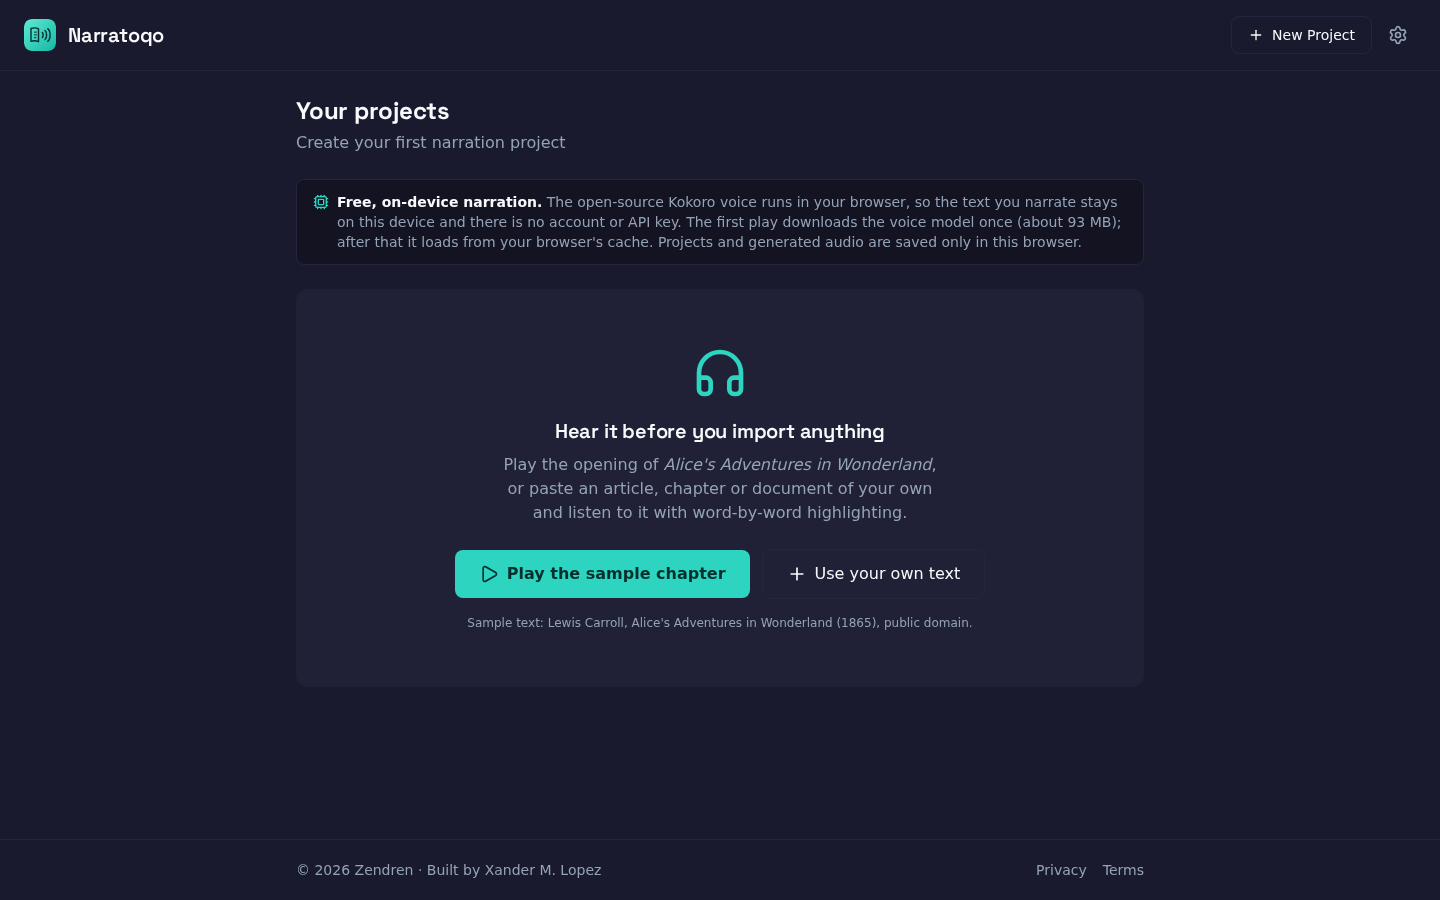
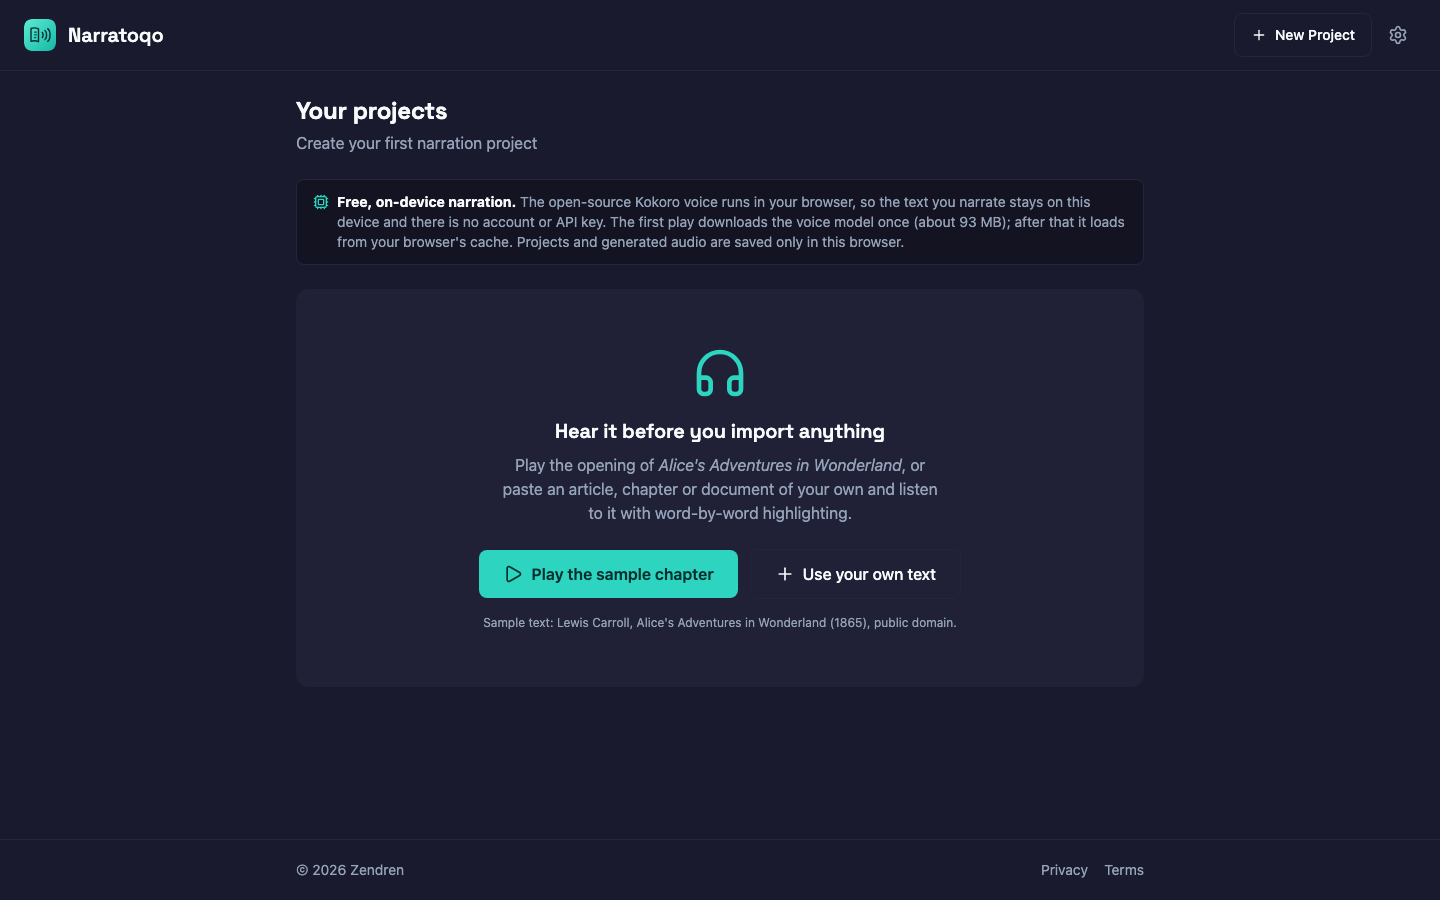
Remove personal credit from Narratoqo

diff --git a/src/pages/AppPolicy.test.tsx b/src/pages/AppPolicy.test.tsx
@@ -7,6 +7,13 @@ import { AppPolicy } from './AppPolicy';
 import deployment from '../../vercel.json';
 
 describe('App policy destinations', () => {
+  it('credits Zendren in the footer', () => {
+    render(<SiteFooter />);
+    const credit = screen.getByRole('link', { name: 'Zendren' });
+    expect(credit).toHaveAttribute('href', 'https://zendren.net');
+    expect(credit.closest('p')?.textContent).toBe(`© ${new Date().getFullYear()} Zendren`);
+  });
+
   it('links Privacy to the app privacy section', () => {
     render(<SiteFooter />);
     expect(screen.getByRole('link', { name: 'Privacy' })).toHaveAttribute('href', '/privacy#privacy');
@@ -24,6 +31,8 @@ describe('App policy destinations', () => {
   it('discloses browser storage and optional network processing without adding legal terms', () => {
     render(<MemoryRouter><AppPolicy /></MemoryRouter>);
     expect(screen.getByText(/This page covers the Narratoqo browser app/)).toBeInTheDocument();
+    expect(screen.getByText(/Zendren LLC operates Narratoqo/)).toBeInTheDocument();
+    expect(screen.getByRole('link', { name: 'hello@zendren.net' })).toHaveAttribute('href', 'mailto:hello@zendren.net');
     expect(screen.getByText(/Projects and generated audio.*IndexedDB/)).toBeInTheDocument();
     expect(screen.getByText(/Voice preferences.*localStorage/)).toBeInTheDocument();
     expect(screen.getByText(/Kokoro uses Cache Storage/)).toBeInTheDocument();

diff --git a/src/pages/AppPolicy.tsx b/src/pages/AppPolicy.tsx
@@ -11,6 +11,13 @@ export function AppPolicy() {
       </Link>
       <h2 className="text-2xl font-semibold text-text-primary">Narratoqo privacy and app use</h2>
       <p>This page covers the Narratoqo browser app, not the Zendren portfolio website.</p>
+      <p>
+        Zendren LLC operates Narratoqo. Send questions to{' '}
+        <a href="mailto:hello@zendren.net" className="text-primary underline underline-offset-2">
+          hello@zendren.net
+        </a>
+        .
+      </p>
       <section id="privacy" className="space-y-3 scroll-mt-6" aria-labelledby="privacy-heading">
         <h3 id="privacy-heading" className="text-xl font-semibold text-text-primary">Privacy and local storage</h3>
         <p>Kokoro and Piper generate narration on your device. Your narration text stays on your device when you use these voices.</p>

diff --git a/src/components/layout/SiteFooter.tsx b/src/components/layout/SiteFooter.tsx
@@ -8,14 +8,6 @@ export function SiteFooter({ className = '' }: { className?: string }) {
           © {year}{' '}
           <a href="https://zendren.net" className="underline-offset-2 hover:underline hover:text-text-primary">
             Zendren
-          </a>{' '}
-          · Built by{' '}
-          <a
-            href="https://xandermlopez.com"
-            rel="author"
-            className="underline-offset-2 hover:underline hover:text-text-primary"
-          >
-            Xander M. Lopez
           </a>
         </p>
         <nav aria-label="Legal" className="flex gap-4">

diff --git a/public/404.html b/public/404.html
@@ -27,7 +27,9 @@
       <p>This address doesn't match a Narratoqo page. Your projects are still saved in this browser.</p>
       <a class="btn" href="/">Back to Narratoqo</a>
     </main>
-    <footer>© <span id="y">2026</span> <a href="https://zendren.net">Zendren</a> · Built by <a href="https://xandermlopez.com" rel="author">Xander M. Lopez</a></footer>
+    <footer>
+      © <span id="y">2026</span> <a href="https://zendren.net">Zendren</a> · <a href="/privacy#privacy">Privacy</a>
+    </footer>
     <script src="/404.js"></script>
   </body>
 </html>

diff --git a/vite.config.ts b/vite.config.ts
@@ -4,6 +4,12 @@ import react from '@vitejs/plugin-react'
 import tailwindcss from '@tailwindcss/vite'
 import path from 'path'
 
+// Vite can embed Vercel system metadata when code reads import.meta.env as an object.
+// Remove these unused values before Vite loads the environment.
+for (const key of Object.keys(process.env)) {
+  if (key.startsWith('VITE_VERCEL_')) delete process.env[key]
+}
+
 // https://vite.dev/config/
 export default defineConfig({
   plugins: [react(), tailwindcss()],

diff --git a/README.md b/README.md
@@ -82,4 +82,4 @@ Voice models are downloaded at run time and are not part of this repository. See
 
 ## License
 
-All rights reserved. See [LICENSE](LICENSE). © Zendren. Built by [Xander M. Lopez](https://xandermlopez.com).
+All rights reserved. See [LICENSE](LICENSE). © Zendren.
